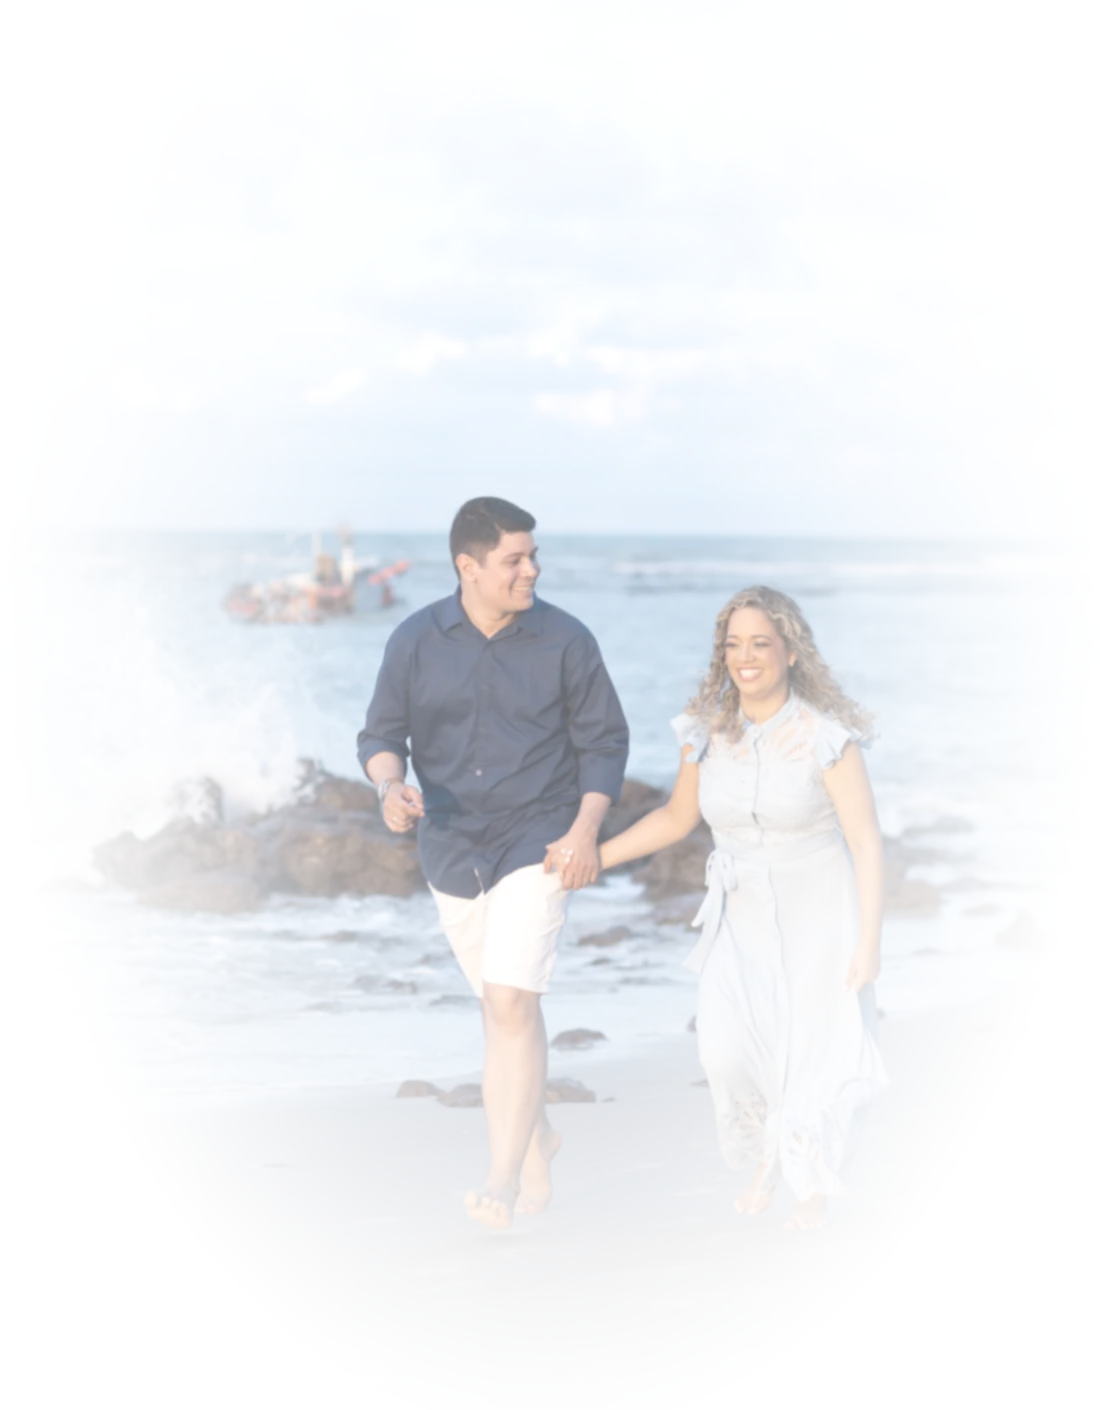
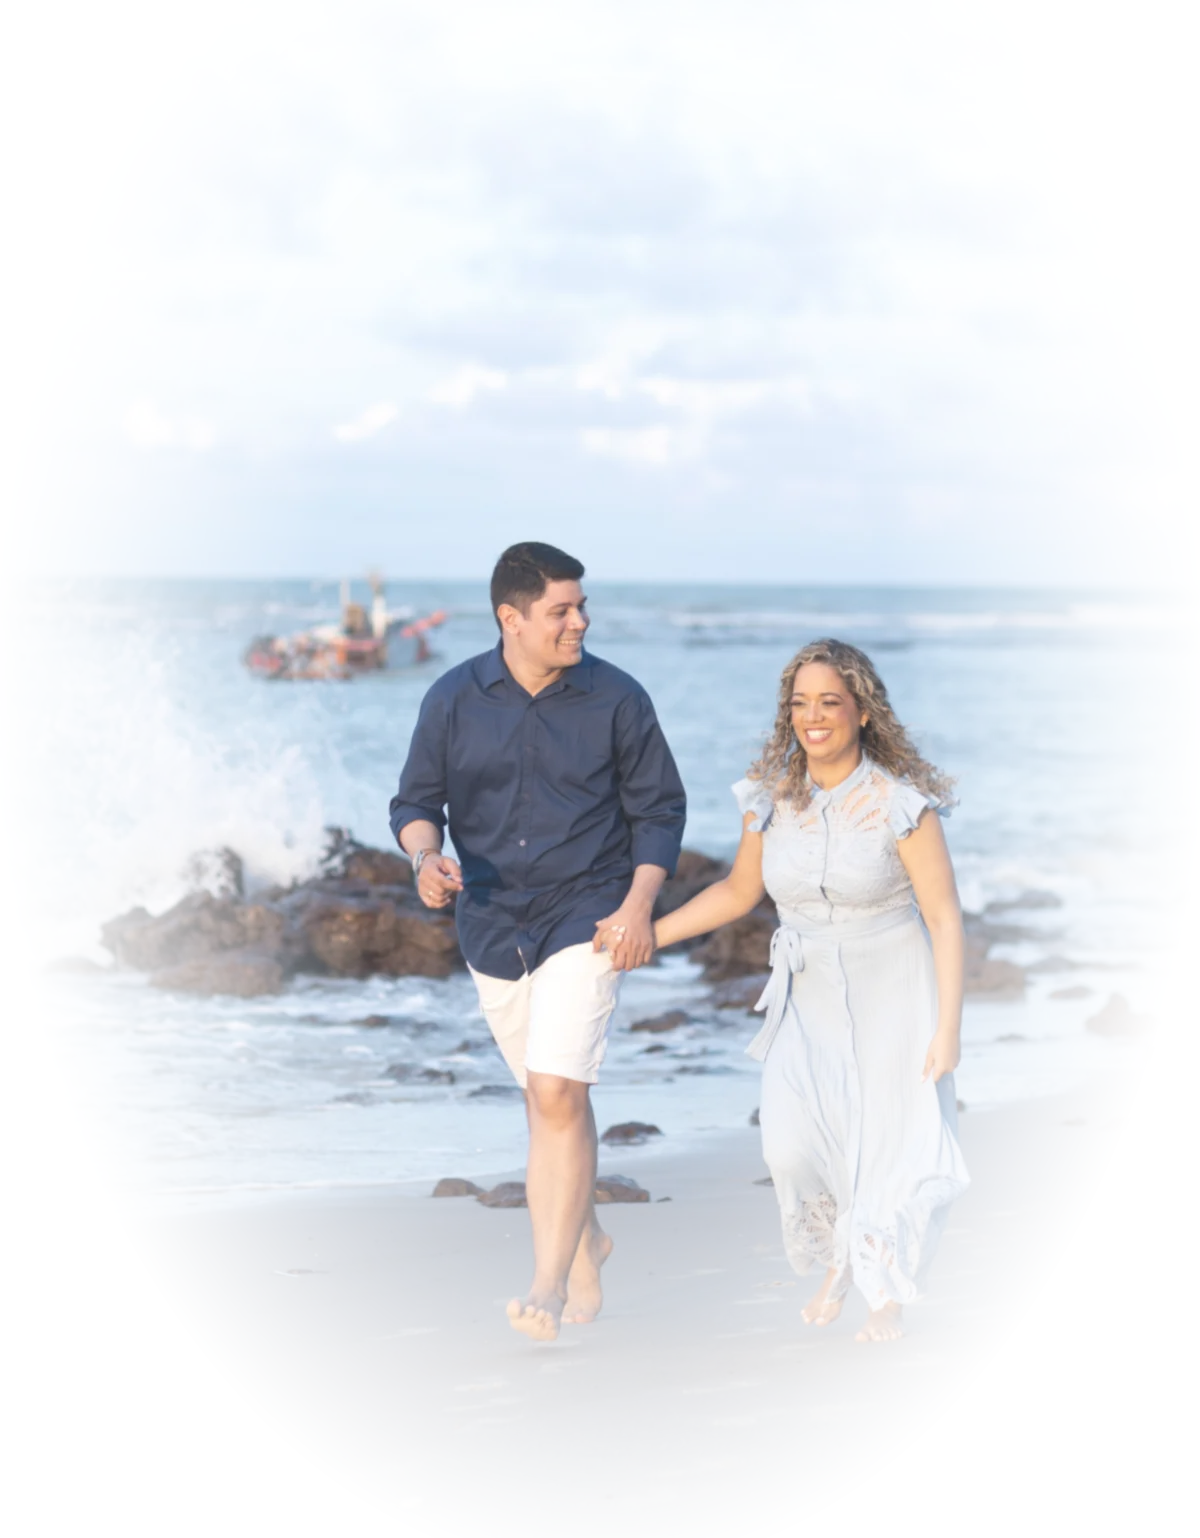
Deixa a foto de fundo do hero mais visível e mais larga
Aumenta a opacidade máxima (0.62 -> 0.85) e o raio da área totalmente
opaca do desvanecimento radial, além de alargar o container (clamp
380-660px -> 440-760px) para a foto se estender mais perto das rosas
laterais.

Changed region(s): [[0.0927, 0.3433, 0.8964, 0.8738]]

diff --git a/assets/css/style.css b/assets/css/style.css
@@ -127,7 +127,7 @@ img { max-width: 100%; display: block; }
   top: 0;
   left: 50%;
   transform: translateX(-50%);
-  width: clamp(380px, 47vw, 660px);
+  width: clamp(440px, 56vw, 760px);
   height: auto;
   z-index: 0;
   pointer-events: none;
